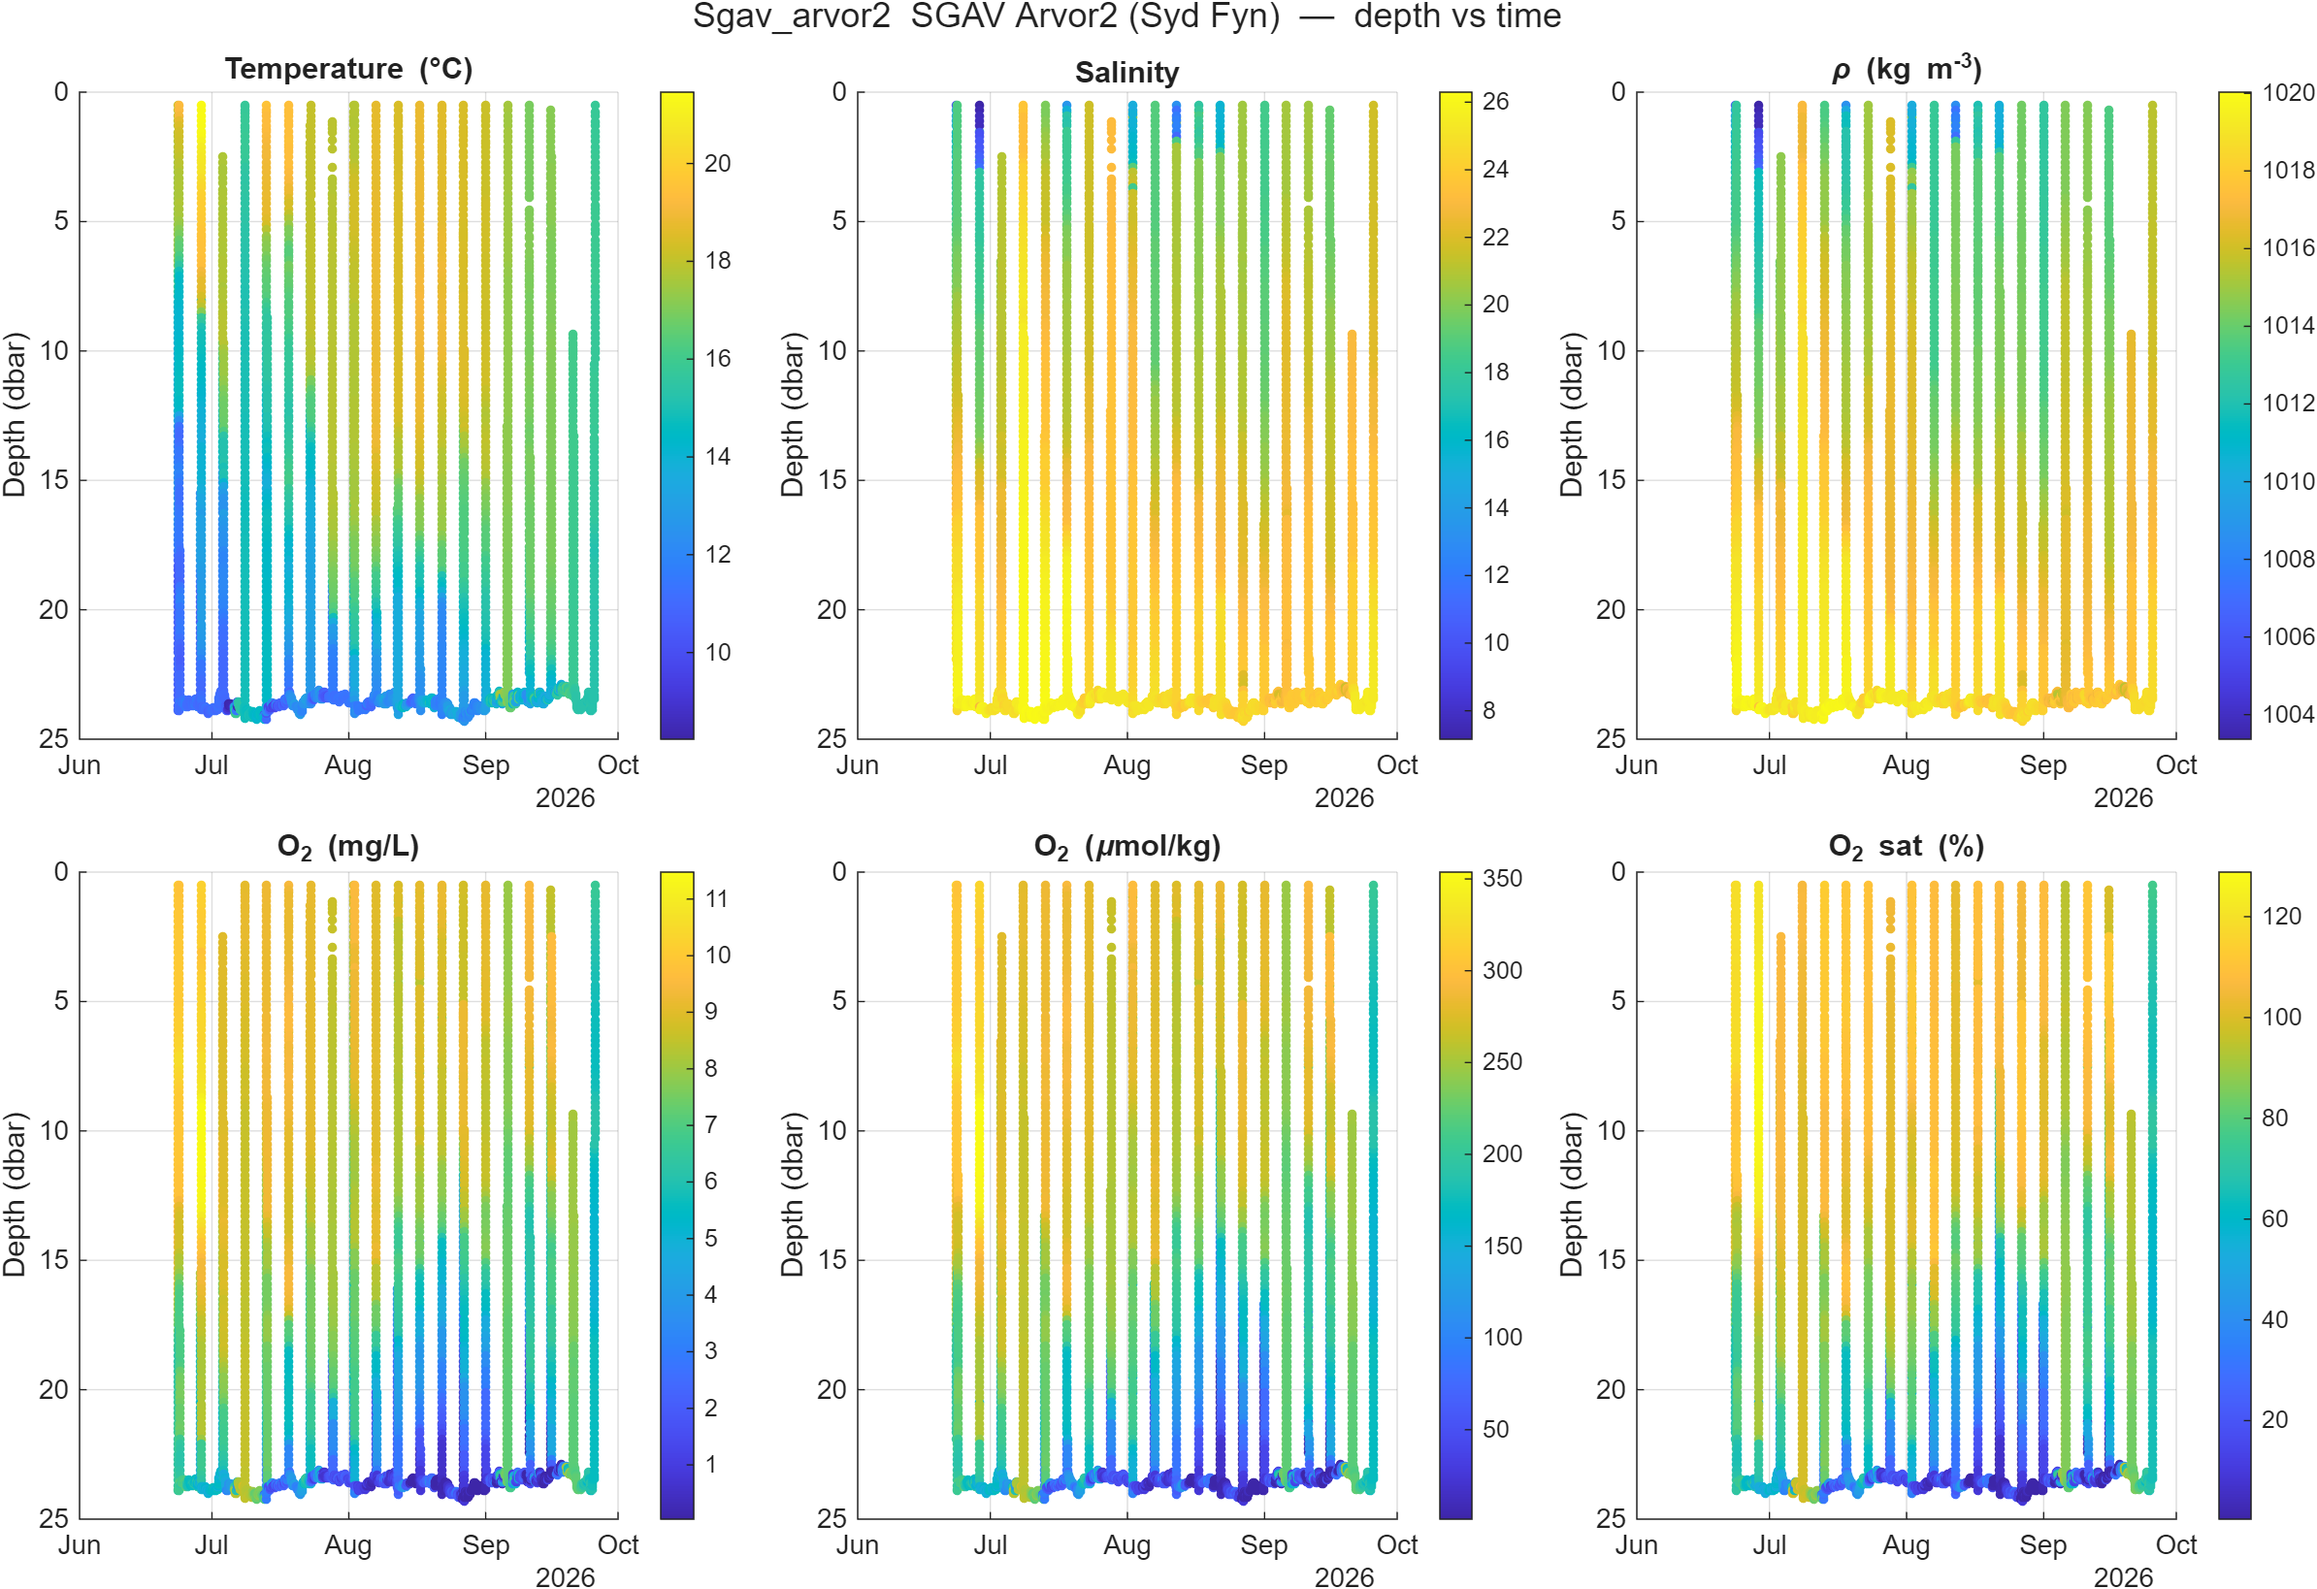
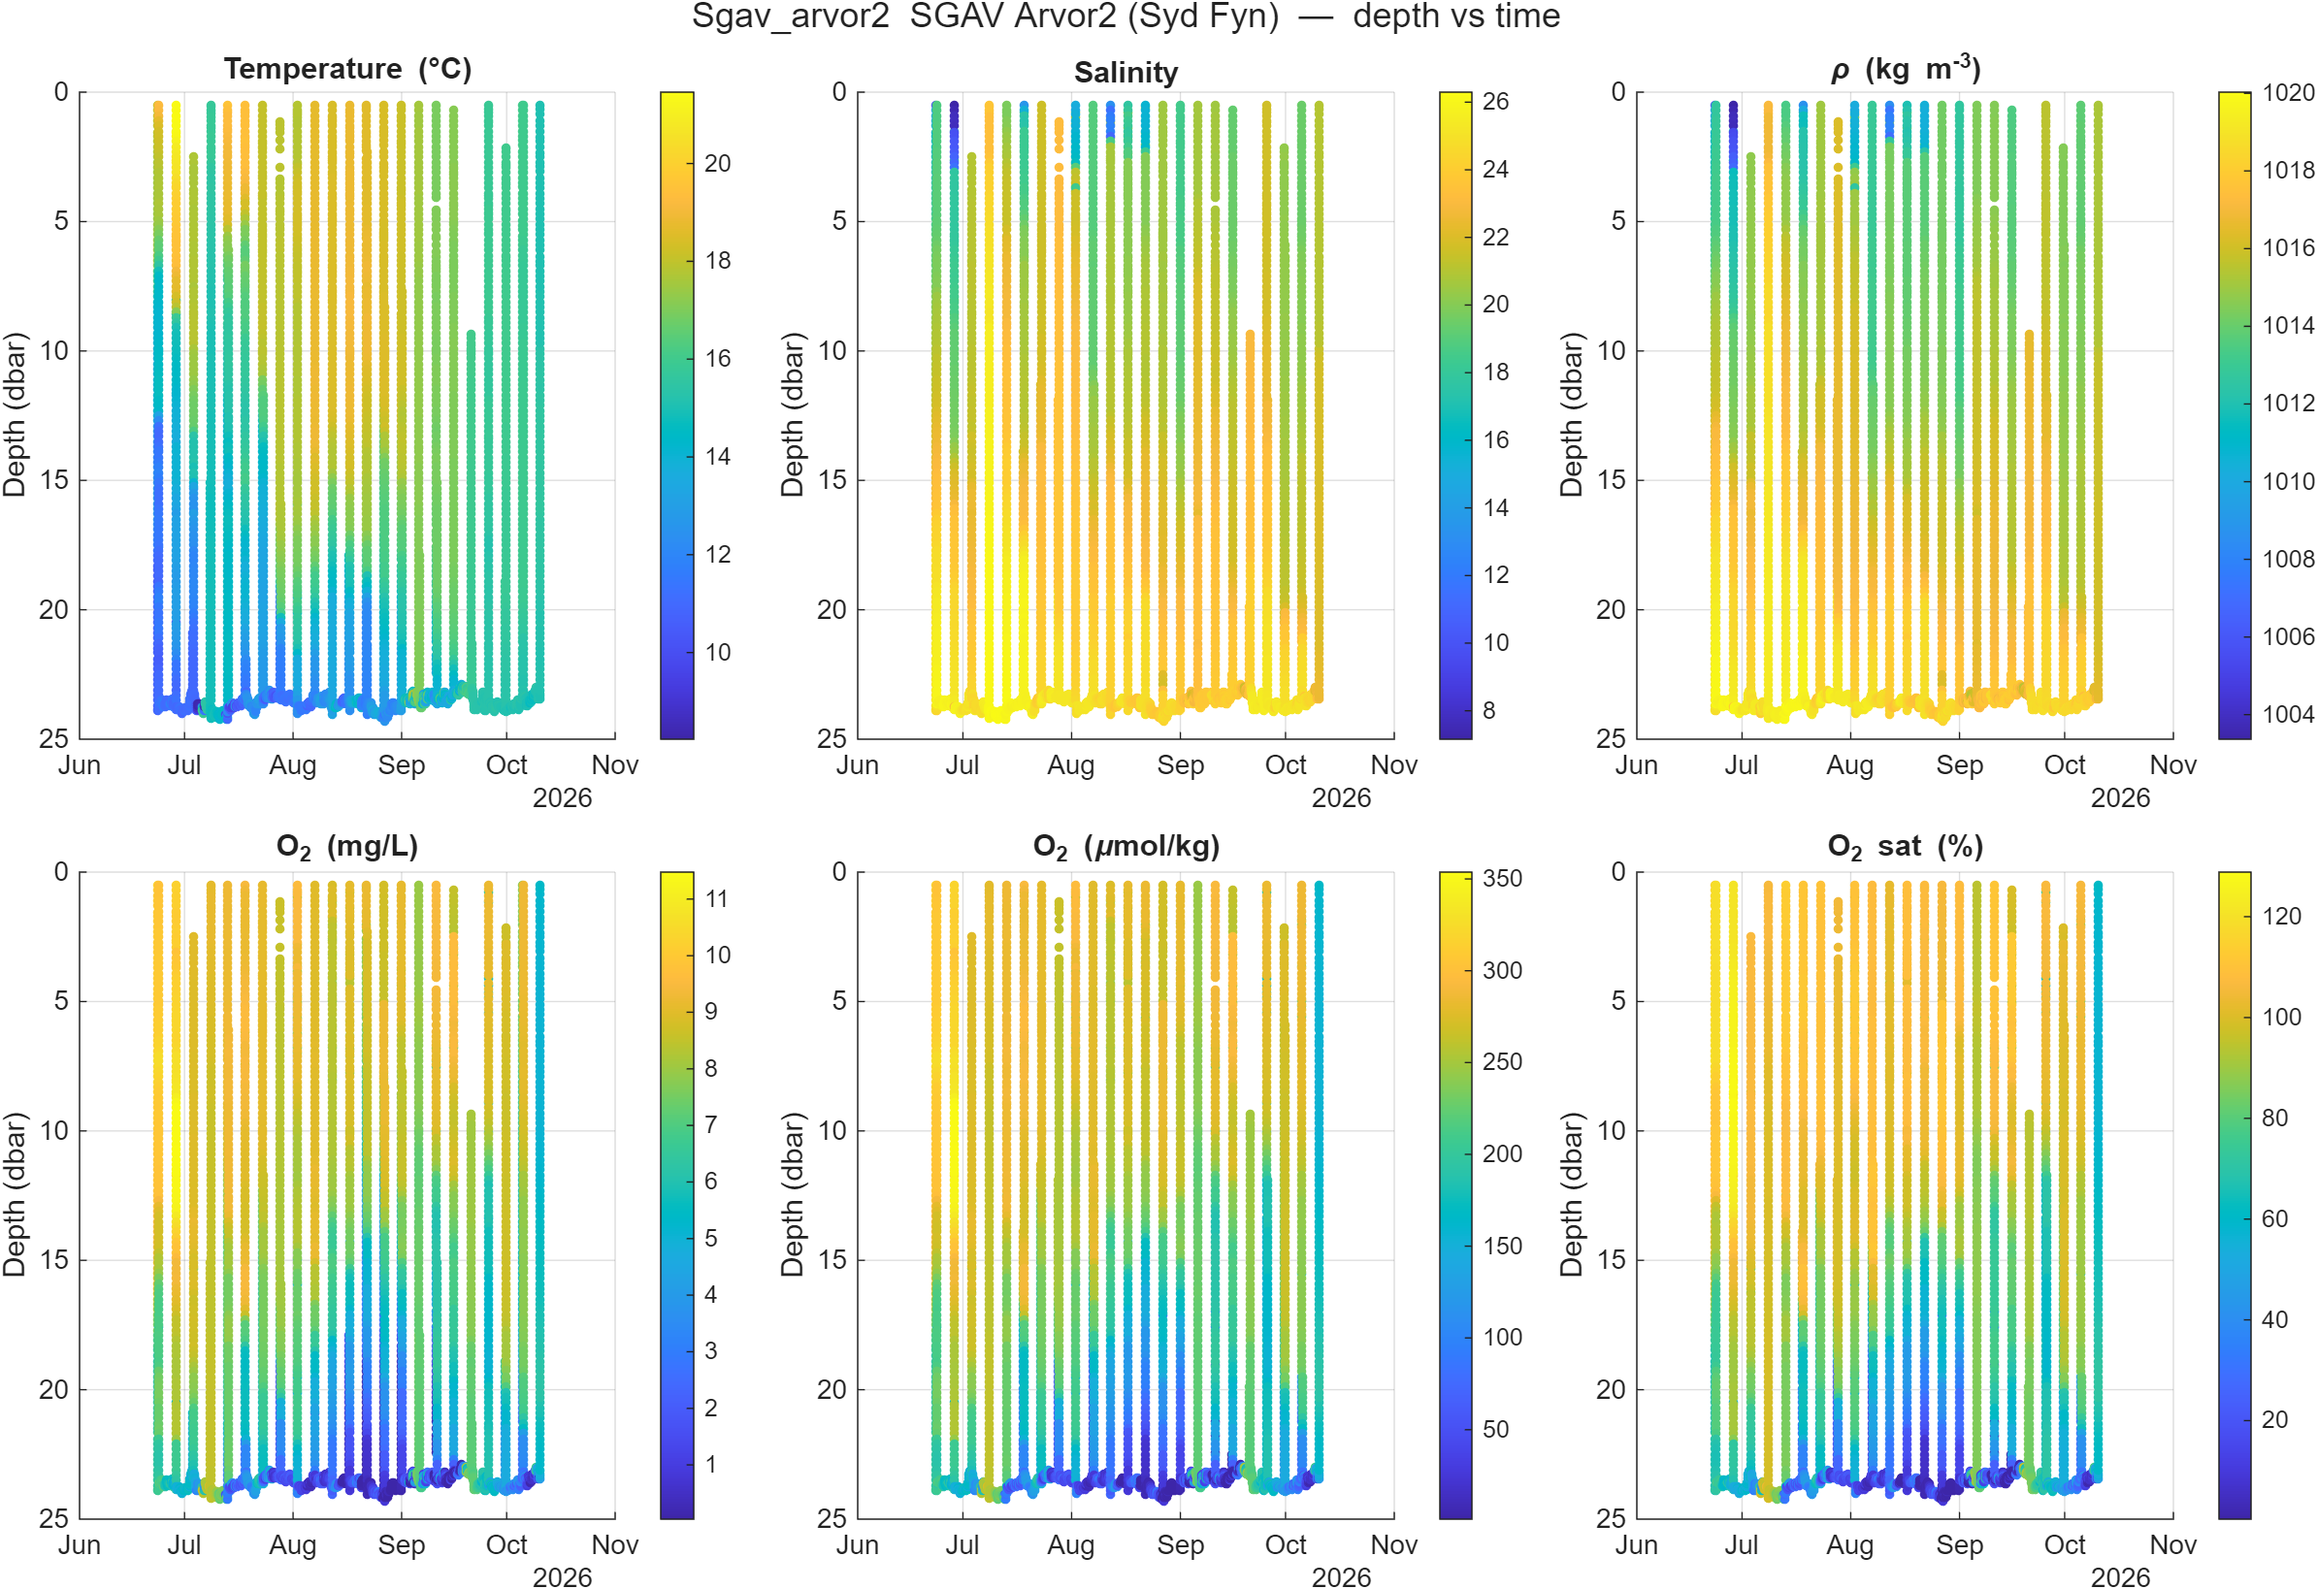
data update

diff --git a/data.js b/data.js
@@ -15,7 +15,7 @@
 //   graphs        [{label, src}, ...] figures for the fold-out
 //   notes         free text from floats_config.csv
 
-const floatUpdated = "2026-10-05 15:23";
+const floatUpdated = "2026-10-10 22:06";
 
 const floatData = [
   {
@@ -27,15 +27,15 @@ const floatData = [
     "region": "greenland",
     "status": "active",
     "status_note": "",
-    "latitude": 69.9366,
-    "longitude": -18.4865,
-    "location": "69.937° N, 18.486° W",
+    "latitude": 69.9058,
+    "longitude": -18.4954,
+    "location": "69.906° N, 18.495° W",
     "deployment_date": "2025-05-27",
-    "last_surface": "2026-10-02 13:07",
-    "days_since": 3.1,
-    "next_surface": "2026-10-07 12:07",
+    "last_surface": "2026-10-07 12:15",
+    "days_since": 3.4,
+    "next_surface": "2026-10-12 11:15",
     "next_surface_source": "nke cycle period",
-    "n_profiles": 102,
+    "n_profiles": 103,
     "track": [
       [
         71.7159,
@@ -452,6 +452,10 @@ const floatData = [
       [
         69.9366,
         -18.4865
+      ],
+      [
+        69.9058,
+        -18.4954
       ]
     ],
     "trajectory": "assets/plots/3902677/3902677_map.png",
@@ -461,8 +465,8 @@ const floatData = [
         "src": "assets/plots/3902677/3902677_sections.png"
       },
       {
-        "label": "Profile 102  (2026-10-02)",
-        "src": "assets/plots/3902677/3902677_profile_102_2026-10-02.png"
+        "label": "Profile 103  (2026-10-07)",
+        "src": "assets/plots/3902677/3902677_profile_103_2026-10-07.png"
       }
     ],
     "notes": "sheet lists SBD+GDAC"
@@ -476,15 +480,15 @@ const floatData = [
     "region": "greenland",
     "status": "active",
     "status_note": "",
-    "latitude": 67.5387,
-    "longitude": -20.0423,
-    "location": "67.539° N, 20.042° W",
+    "latitude": 67.5271,
+    "longitude": -20.0839,
+    "location": "67.527° N, 20.084° W",
     "deployment_date": "2025-02-10",
-    "last_surface": "2026-10-04 10:44",
-    "days_since": 1.2,
-    "next_surface": "2026-10-09 09:44",
+    "last_surface": "2026-10-09 09:08",
+    "days_since": 1.5,
+    "next_surface": "2026-10-14 08:08",
     "next_surface_source": "nke cycle period",
-    "n_profiles": 123,
+    "n_profiles": 124,
     "track": [
       [
         67.3361,
@@ -985,6 +989,10 @@ const floatData = [
       [
         67.5387,
         -20.0423
+      ],
+      [
+        67.5271,
+        -20.0839
       ]
     ],
     "trajectory": "assets/plots/6990657/6990657_map.png",
@@ -994,8 +1002,8 @@ const floatData = [
         "src": "assets/plots/6990657/6990657_sections.png"
       },
       {
-        "label": "Profile 123  (2026-10-04)",
-        "src": "assets/plots/6990657/6990657_profile_123_2026-10-04.png"
+        "label": "Profile 124  (2026-10-09)",
+        "src": "assets/plots/6990657/6990657_profile_124_2026-10-09.png"
       }
     ],
     "notes": "RBR CTD"
@@ -1014,7 +1022,7 @@ const floatData = [
     "location": "78.691° N, 11.255° W",
     "deployment_date": "2025-08-04",
     "last_surface": "2026-09-01 04:35",
-    "days_since": 34.5,
+    "days_since": 39.7,
     "next_surface": "2026-09-06 03:35",
     "next_surface_source": "nke cycle period",
     "n_profiles": 81,
@@ -1378,15 +1386,15 @@ const floatData = [
     "region": "greenland",
     "status": "active",
     "status_note": "",
-    "latitude": 73.1243,
-    "longitude": -14.6939,
-    "location": "73.124° N, 14.694° W",
+    "latitude": 72.9115,
+    "longitude": -15.3815,
+    "location": "72.911° N, 15.382° W",
     "deployment_date": "2025-10-30",
-    "last_surface": "2026-10-03 06:57",
-    "days_since": 2.4,
-    "next_surface": "2026-10-08 05:57",
+    "last_surface": "2026-10-08 05:41",
+    "days_since": 2.7,
+    "next_surface": "2026-10-13 04:41",
     "next_surface_source": "nke cycle period",
-    "n_profiles": 68,
+    "n_profiles": 69,
     "track": [
       [
         81.3966,
@@ -1671,6 +1679,10 @@ const floatData = [
       [
         73.1243,
         -14.6939
+      ],
+      [
+        72.9115,
+        -15.3815
       ]
     ],
     "trajectory": "assets/plots/7902329/7902329_map.png",
@@ -1680,8 +1692,8 @@ const floatData = [
         "src": "assets/plots/7902329/7902329_sections.png"
       },
       {
-        "label": "Profile 078  (2026-10-03)",
-        "src": "assets/plots/7902329/7902329_profile_078_2026-10-03.png"
+        "label": "Profile 079  (2026-10-08)",
+        "src": "assets/plots/7902329/7902329_profile_079_2026-10-08.png"
       }
     ],
     "notes": "ODEN2025 (North Pole deployment); pre-deployment Denmark test dropped via deploy_date"
@@ -1695,15 +1707,15 @@ const floatData = [
     "region": "greenland",
     "status": "active",
     "status_note": "",
-    "latitude": 77.3306,
-    "longitude": -70.9227,
-    "location": "77.331° N, 70.923° W",
+    "latitude": 77.3333,
+    "longitude": -70.9814,
+    "location": "77.333° N, 70.981° W",
     "deployment_date": "2025-08-13",
-    "last_surface": "2026-10-04 00:25",
-    "days_since": 1.6,
-    "next_surface": "2026-10-08 23:25",
+    "last_surface": "2026-10-08 23:34",
+    "days_since": 1.9,
+    "next_surface": "2026-10-13 22:34",
     "next_surface_source": "nke cycle period",
-    "n_profiles": 64,
+    "n_profiles": 65,
     "track": [
       [
         77.3953,
@@ -1972,6 +1984,10 @@ const floatData = [
       [
         77.3306,
         -70.9227
+      ],
+      [
+        77.3333,
+        -70.9814
       ]
     ],
     "trajectory": "assets/plots/2903998/2903998_map.png",
@@ -1981,8 +1997,8 @@ const floatData = [
         "src": "assets/plots/2903998/2903998_sections.png"
       },
       {
-        "label": "Profile 085  (2026-10-03)",
-        "src": "assets/plots/2903998/2903998_profile_085_2026-10-03.png"
+        "label": "Profile 086  (2026-10-08)",
+        "src": "assets/plots/2903998/2903998_profile_086_2026-10-08.png"
       }
     ],
     "notes": ""
@@ -2001,7 +2017,7 @@ const floatData = [
     "location": "74.330° N, 20.311° W",
     "deployment_date": "2025-08-17",
     "last_surface": "2026-10-02 12:29",
-    "days_since": 3.1,
+    "days_since": 8.4,
     "next_surface": "2026-10-12 07:29",
     "next_surface_source": "nke cycle period",
     "n_profiles": 42,
@@ -2209,15 +2225,15 @@ const floatData = [
     "region": "denmark",
     "status": "active",
     "status_note": "",
-    "latitude": 56.3227,
-    "longitude": 19.4131,
-    "location": "56.323° N, 19.413° E",
+    "latitude": 56.332,
+    "longitude": 19.4353,
+    "location": "56.332° N, 19.435° E",
     "deployment_date": "2024-11-25",
-    "last_surface": "2026-10-05 02:55",
-    "days_since": 0.5,
-    "next_surface": "2026-10-09 21:55",
+    "last_surface": "2026-10-09 21:47",
+    "days_since": 1,
+    "next_surface": "2026-10-14 16:47",
     "next_surface_source": "nke cycle period",
-    "n_profiles": 146,
+    "n_profiles": 147,
     "track": [
       [
         55.4992,
@@ -2806,6 +2822,10 @@ const floatData = [
       [
         56.3227,
         19.4131
+      ],
+      [
+        56.332,
+        19.4353
       ]
     ],
     "trajectory": "assets/plots/3902607/3902607_map.png",
@@ -2815,8 +2835,8 @@ const floatData = [
         "src": "assets/plots/3902607/3902607_sections.png"
       },
       {
-        "label": "Profile 146  (2026-10-05)",
-        "src": "assets/plots/3902607/3902607_profile_146_2026-10-05.png"
+        "label": "Profile 147  (2026-10-09)",
+        "src": "assets/plots/3902607/3902607_profile_147_2026-10-09.png"
       }
     ],
     "notes": "RBR CTD; pre-deployment July-2024 fix dropped via deploy_date"
@@ -2830,15 +2850,15 @@ const floatData = [
     "region": "denmark",
     "status": "active",
     "status_note": "",
-    "latitude": 55.2011,
-    "longitude": 9.7524,
-    "location": "55.201° N, 9.752° E",
+    "latitude": 55.2007,
+    "longitude": 9.7531,
+    "location": "55.201° N, 9.753° E",
     "deployment_date": "2026-06-23",
-    "last_surface": "2026-09-25 17:38",
-    "days_since": 9.9,
-    "next_surface": "2026-09-30 16:29",
+    "last_surface": "2026-10-10 15:15",
+    "days_since": 0.3,
+    "next_surface": "2026-10-15 14:06",
     "next_surface_source": "median cycle interval",
-    "n_profiles": 20,
+    "n_profiles": 23,
     "track": [
       [
         55.2012,
@@ -2919,6 +2939,18 @@ const floatData = [
       [
         55.2011,
         9.7524
+      ],
+      [
+        55.2011,
+        9.7534
+      ],
+      [
+        55.2011,
+        9.7534
+      ],
+      [
+        55.2007,
+        9.7531
       ]
     ],
     "trajectory": "assets/plots/Sgav_arvor2/Sgav_arvor2_map.png",
@@ -2928,8 +2960,8 @@ const floatData = [
         "src": "assets/plots/Sgav_arvor2/Sgav_arvor2_sections.png"
       },
       {
-        "label": "Profile 020  (2026-09-25)",
-        "src": "assets/plots/Sgav_arvor2/Sgav_arvor2_profile_020_2026-09-25.png"
+        "label": "Profile 023  (2026-10-10)",
+        "src": "assets/plots/Sgav_arvor2/Sgav_arvor2_profile_023_2026-10-10.png"
       }
     ],
     "notes": "PFV2 python parser"
@@ -2944,14 +2976,14 @@ const floatData = [
     "status": "active",
     "status_note": "",
     "latitude": 54.9865,
-    "longitude": 10.229,
-    "location": "54.986° N, 10.229° E",
+    "longitude": 10.2275,
+    "location": "54.986° N, 10.227° E",
     "deployment_date": "2026-06-24",
-    "last_surface": "2026-10-03 02:16",
-    "days_since": 2.5,
-    "next_surface": "2026-10-08 02:12",
+    "last_surface": "2026-10-08 01:53",
+    "days_since": 2.8,
+    "next_surface": "2026-10-13 01:48",
     "next_surface_source": "median cycle interval",
-    "n_profiles": 21,
+    "n_profiles": 22,
     "track": [
       [
         54.9864,
@@ -3036,6 +3068,10 @@ const floatData = [
       [
         54.9865,
         10.229
+      ],
+      [
+        54.9865,
+        10.2275
       ]
     ],
     "trajectory": "assets/plots/Sgav_provor/Sgav_provor_map.png",
@@ -3045,8 +3081,8 @@ const floatData = [
         "src": "assets/plots/Sgav_provor/Sgav_provor_sections.png"
       },
       {
-        "label": "Profile 021  (2026-10-03)",
-        "src": "assets/plots/Sgav_provor/Sgav_provor_profile_021_2026-10-03.png"
+        "label": "Profile 022  (2026-10-08)",
+        "src": "assets/plots/Sgav_provor/Sgav_provor_profile_022_2026-10-08.png"
       }
     ],
     "notes": "BGC+RAMSES+SUNA; needs external SGAV_provor tree beside pipeline (FTP+APMTDecoder); set active=true to re-run"
@@ -3059,13 +3095,13 @@ const floatData = [
     "sensors": "bgc",
     "region": "denmark",
     "status": "inactive",
-    "status_note": "no transmission for 456 days — no next surfacing predicted",
+    "status_note": "no transmission for 461 days — no next surfacing predicted",
     "latitude": 55.1358,
     "longitude": 14.5121,
     "location": "55.136° N, 14.512° E",
     "deployment_date": "2023-11-07",
     "last_surface": "2025-07-06 10:58",
-    "days_since": 456.2,
+    "days_since": 461.5,
     "next_surface": "",
     "next_surface_source": "",
     "n_profiles": 190,
